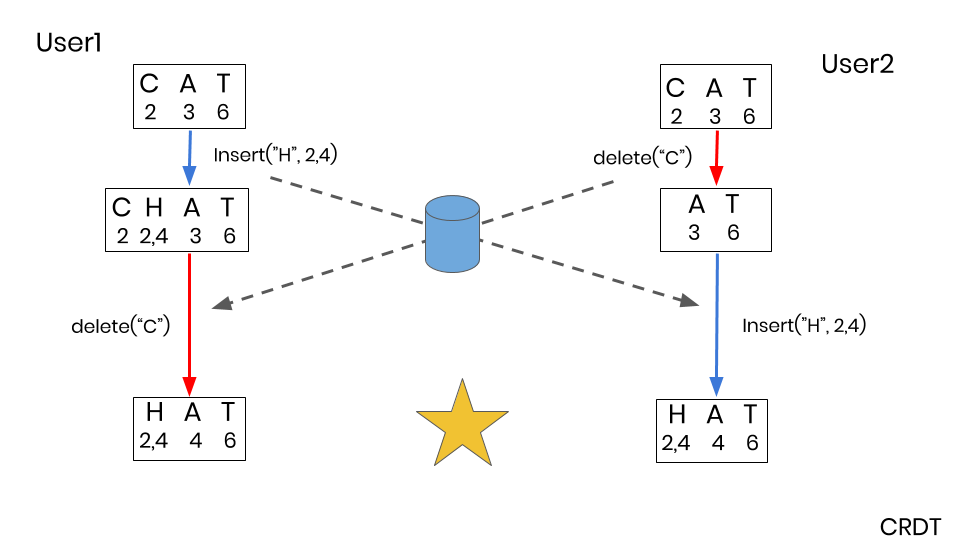
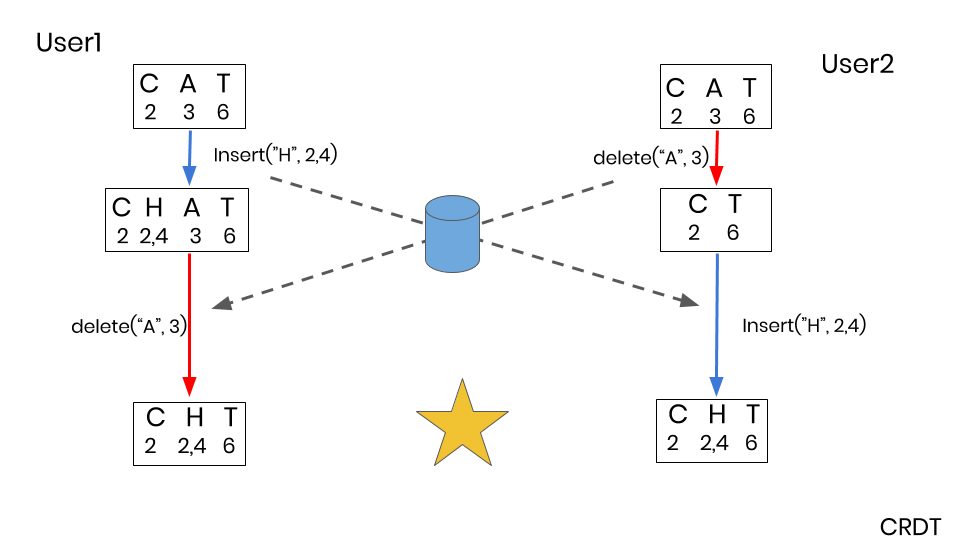
Revised crdt section

diff --git a/index.md b/index.md
@@ -175,7 +175,7 @@ Using fractional indices, instead of inserting “H” at position 1, we insert 
   </figcaption>
 </figure>
 
-The key is that by using franctional indices to insert characters, we never have to shift the positions of surrounding characters.
+The key is that by using fractional indices to insert characters, we never have to shift the positions of surrounding characters.
 
 Another way to imagine fractional indices is as a tree. As characters are inserted into the document, they can be inserted in between two existing position identifiers at one level of the tree. However, if there is no space between two existing character positions, as demonstrated below, we proceed to the next level of the tree and pick an available position value from there.
 
@@ -190,7 +190,9 @@ Another way to imagine fractional indices is as a tree. As characters are insert
   </figcaption>
 </figure>
 
-With globally ordered characters using position identifiers, let's revisit our example of simultaneous insertions and deletions.
+With globally ordered characters using position identifiers, let's revisit our example of simultaneous insert and delete operations.
+
+**Note:** For the purpose of simplifying the example, we've omitted the **Site ID** and **Site Counter** properties. The globally unique ids here are just the fractional positions. In reality, they'll be more complex objects.
 
 <figure>
   <center>
@@ -201,9 +203,9 @@ With globally ordered characters using position identifiers, let's revisit our e
   </figcaption>
 </figure>
 
-When inserting or deleting characters in our CRDT, we do so using globally unique characters. Therefore, the deletion of a particular character has absolutely no effect on the insertion of a new character. In other words, our insertion and deletion operations now commute!
+With our CRDT, we now insert globally unique characters with fractionally indexed positions. The result is that deleting a particular character has absolutely no effect on the insertion of a new character. In other words, our insertion and deletion operations now commute!
 
-If you're paying attention, you'll be wondering what happens if two users insert the same character in the same position at the same time. To ensure that these characters are still globally unique, we attach the **Site ID** to the end of character's position identifier, and that Site ID is used as a tiebreaker in the event that multiple users inserted the same character in the same position.
+If you're paying close attention, you might ask what happens if two users insert the same character in the same position at the same time. To ensure that these characters are still globally unique, we attach the **Site ID** to the end of character's position identifier, and that Site ID is used as a tiebreaker in the event that multiple users inserted the same character in the same position.
 
 ---
 ## Coding the CRDT
